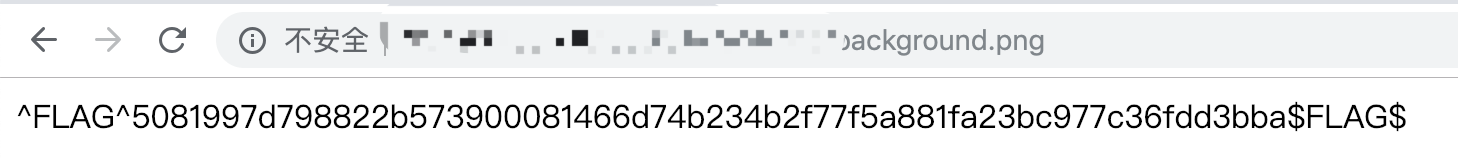
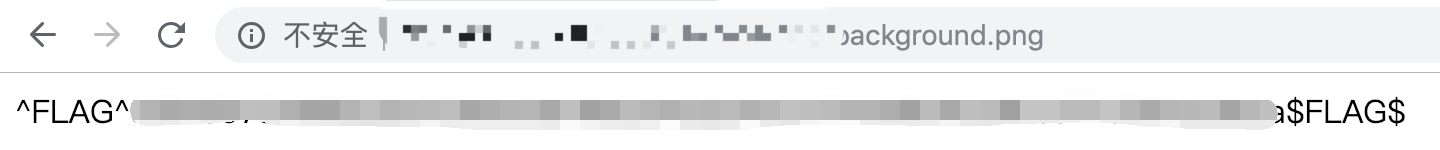
1-0

diff --git a/micro-cms_v1/flag0/README.md b/micro-cms_v1/flag0/README.md
@@ -1,0 +1,43 @@
+# Micro-CMS v1 - FLAG0
+
+## 0x00 Index
+
+![](./imgs/index.jpg)
+
+## 0x01 Create New Page
+
+![](./imgs/create.jpg)
+
+![](./imgs/9.jpg)
+
+It shows **id=9**
+
+## 0x02 Check Other Pages
+
+The Testing page is 1.
+
+![](./imgs/1.jpg)
+
+The Markdown Test page is 2.
+
+![](./imgs/2.jpg)
+
+Should be something between 2 - 9.
+
+Page 3, 4, 5, 6, 8 get 404 error.
+
+![](./imgs/404.jpg)
+
+But Page 7 has 403 Fobidden error. Need to take a look of Page 7.
+
+![](./imgs/403.jpg)
+
+## 0x03 Edit Page
+
+![](./imgs/edit.jpg)
+
+## 0x04 FLAG
+
+Change Page id and get the FLAG.
+
+![](./imgs/flag.jpg)

diff --git a/a_little_something_to_get_you_started/flag0/README.md b/a_little_something_to_get_you_started/flag0/README.md
@@ -23,9 +23,3 @@ There is an background image here but not show on the page.
 http://127.0.0.1:5001/xxxxxxxxxx/background.png
 
 ![](./imgs/flag.png)
-
-Here we get the FLAG
-
-```
-^FLAG^5081997d798822b573900081466d74b234b2f77f5a881fa23bc977c36fdd3bba$FLAG$
-```
